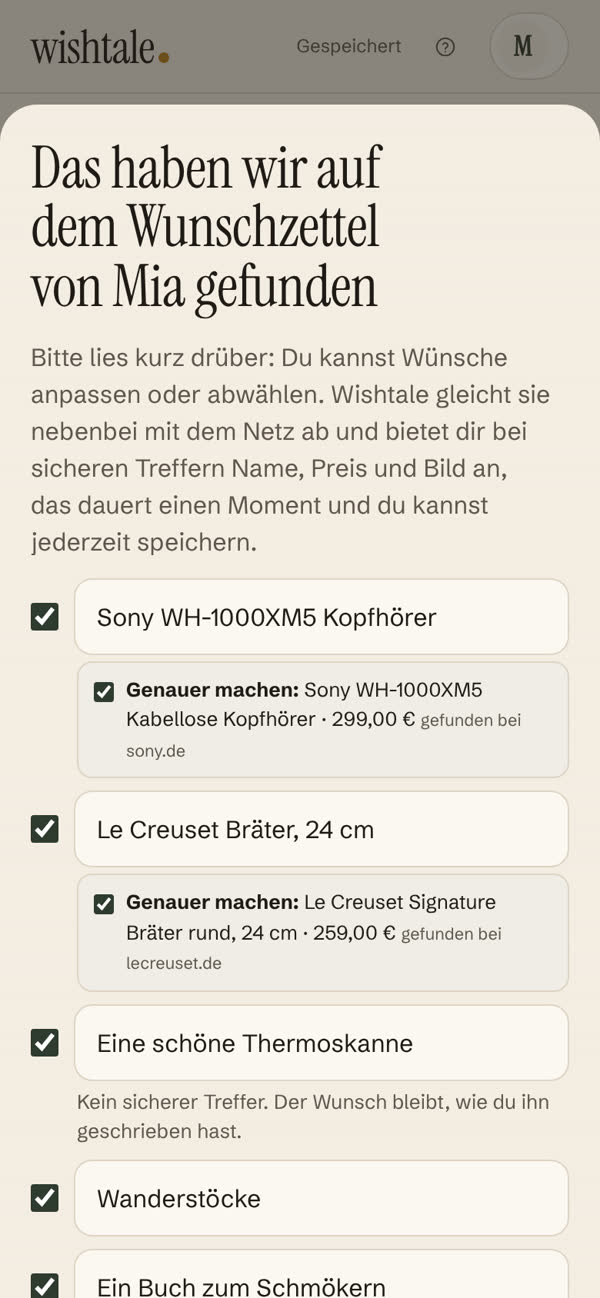
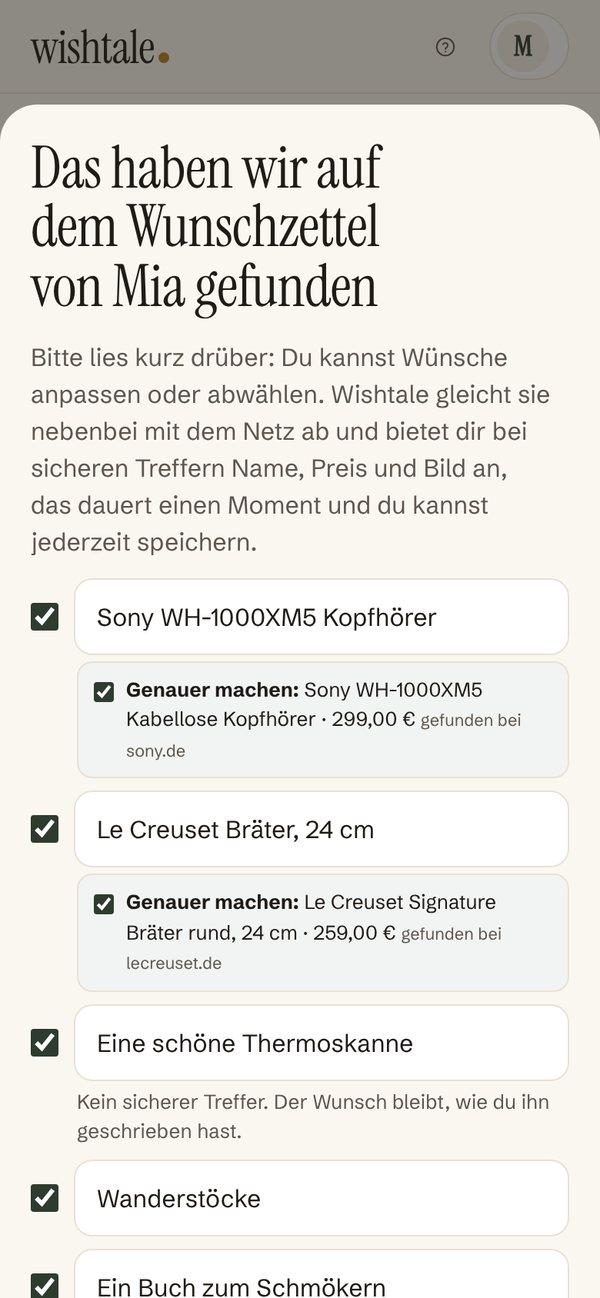
Optische Befunde: klare Unterzeilen, Band wegklickbar, Profil lesbar, Landingpage hell
- Unterzeile ungenauer Wünsche: „Wishtale hat … Ideen dazu“ statt abgeschnittener Produktnamen
- Band „Jetzt neu“ verschwindet nach Benutzen oder ×; Wunschzettel weiter im Wunschdialog und im Menü
- Profil: Sichtbarkeit am Handy mit Kurzwort („Für alle“, „Privat“) statt nur Weltkugel, Knöpfe in einer Zeile
- Gastansicht: Sprung zu den Ideen als sichtbarer Knopf; Reservieren auch in der Freunde-Vorschau (mit Hinweis statt Aktion)
- Landingpage und Rechtsseiten in der hellen Farbwelt, App-Bilder neu aufgenommen

Dev 103

Agent: claude
Claude-Session: https://claude.ai/code/session_01SYv7KzvbXUAkPAj8WHgPpk

Changed region(s): [[0.51, 0.0308, 0.66, 0.0616]]

diff --git a/src/views/card.js b/src/views/card.js
@@ -29,8 +29,10 @@ function wishLine(w,p){
   // Konkret statt allgemein: wo es das gibt, und bei ungenauen Wünschen der erste Tipp von Wishtale (klar als Tipp gekennzeichnet).
   const host=w.link?hostOf(w.link):'';
   const linkLine=!host?'Mit Link':host==='Amazon'?'Bei Amazon':`${host}, auch bei Amazon`;
-  const vague=ai?`Tipp von Wishtale: ${ai.t}`:aiStatus('wish:'+w.id)==='loading'?'Wishtale sucht passende Produkte …':pr&&!['erzeugt','link'].includes(pr.source)?`Tipp von Wishtale: ${pr.t}`:'Tipps von Wishtale ansehen';
-  const line=w.status==='selbst'?'Schon vorhanden':w.link?linkLine:w.kind==='erlebnis'?'Erlebnis':w.kind==='frei'?'Ideen ansehen':w.noSuggest?'Bei Amazon suchen':byAi||w.kind==='kategorie'?vague:isSpecific(w)?'Bei Amazon zu finden':pr?`Tipp von Wishtale: ${pr.t}`:'';
+  // Kurz und eindeutig statt abgeschnittener Produktnamen (098/103): Die Ideen selbst stehen in der Wunsch-Ansicht.
+  const n=ideasOf('wish:'+w.id).length;
+  const vague=aiStatus('wish:'+w.id)==='loading'?'Wishtale sucht passende Produkte …':n>1?`Wishtale hat ${n} Ideen dazu`:(ai||(pr&&!['erzeugt','link'].includes(pr.source)))?'Wishtale hat eine Idee dazu':'Ohne Link, Wishtale hat Ideen dazu';
+  const line=w.status==='selbst'?'Schon vorhanden':w.link?linkLine:w.kind==='erlebnis'?'Erlebnis':w.kind==='frei'?'Ideen ansehen':w.noSuggest?'Bei Amazon suchen':byAi||w.kind==='kategorie'?vague:isSpecific(w)?'Bei Amazon zu finden':pr?'Wishtale hat eine Idee dazu':'';
   return {pr,line};
 }
 
@@ -40,7 +42,7 @@ const cardPrice=w=>w.price?money(w.price):w.kind==='kategorie'&&w.budget?'bis '+
 export function WishRow(w,p,o={}){
   const {pr,line}=wishLine(w,p);
   const price=w.price?money(w.price):w.kind==='kategorie'&&w.budget?'bis '+money(w.budget):'';
-  const res=o.reserve?`<button class="wres" data-act="reserve" data-id="${w.id}" aria-label="${esc(w.t)} reservieren">Reservieren</button>`:'';
+  const res=o.reserve?`<button class="wres" data-act="${o.reserve==='preview'?'previewres':'reserve'}" data-id="${w.id}" aria-label="${esc(w.t)} reservieren">Reservieren</button>`:'';
   const row=`<div class="wrow ${o.taken?'taken':''} ${o.dim?'dim':''} ${w.status==='selbst'?'done':''} ${res?'has-res':''}" role="button" tabindex="0" data-act="wopen" data-id="${w.id}" data-ctx="${o.ctx||'guest'}">
    <span class="wrow-img">${WishArt(w,pr)}</span>
    <div class="wrow-b"><span class="wt">${esc(w.t)}</span><span class="wp">${esc(line)}</span>${o.meta?`<span class="wm">${o.meta}</span>`:''}</div>
@@ -53,7 +55,7 @@ export function WishRow(w,p,o={}){
 /** o.ctx: 'guest' | 'own' | 'preview'; o.status: {text,tone}; o.taken; o.dim; o.meta: HTML der Label-Zeile */
 export function WishCard(w,p,o={}){
   const {pr,line}=wishLine(w,p);
-  const res=o.reserve?`<button class="wres" data-act="reserve" data-id="${w.id}" aria-label="${esc(w.t)} reservieren">Reservieren</button>`:'';
+  const res=o.reserve?`<button class="wres" data-act="${o.reserve==='preview'?'previewres':'reserve'}" data-id="${w.id}" aria-label="${esc(w.t)} reservieren">Reservieren</button>`:'';
   const card=`<div class="wcard compact ${o.taken?'taken':''} ${o.dim?'dim':''} ${w.status==='selbst'?'done':''} ${res?'has-res':''}" role="button" tabindex="0" data-act="wopen" data-id="${w.id}" data-ctx="${o.ctx||'guest'}">
    <div class="wmedia">${WishArt(w,pr)}
     <div class="top"><span class="tag">${esc(cat(w.c).n)}</span><span class="dots" title="${PRIO[w.prio]}" aria-label="Priorität: ${PRIO[w.prio]}">${[1,2,3].map(n=>`<i class="${n<=w.prio?'on':''}"></i>`).join('')}</span></div>

diff --git a/src/views/menu.js b/src/views/menu.js
@@ -27,7 +27,7 @@ export function Menu() {
    <div class="drawer-head"><div class="who"><span class="av t${m.tone}">${initials(m.name)}</span><div><strong id="menu-t">${esc(m.name)}</strong><span class="muted">${u ? esc(u.email || '') : 'Demo, nur in diesem Browser'}</span></div></div>
     <button class="sheet-x mclose" data-act="menuclose" aria-label="Menü schließen">×</button></div>
    <nav aria-label="Menü">
-    ${g('Mein Wishtale', item('star', 'Meine Wünsche', go('wuensche'), v === 'wuensche') + item('user', 'Profil und Persönlichkeit', go('profil'), v === 'profil') + item('globe', 'Social Media', go('profil', 'social'), false, 'Pinterest und Instagram') + item('clock', 'Historie und Meine Geschenke', go('historie'), v === 'historie'))}
+    ${g('Mein Wishtale', item('star', 'Meine Wünsche', go('wuensche'), v === 'wuensche') + (u ? item('plus', 'Wunschzettel hochladen', dd('modal', 'data-v="zettel"'), false, 'Foto oder Text, Wishtale macht daraus Wünsche') : '') + item('user', 'Profil und Persönlichkeit', go('profil'), v === 'profil') + item('globe', 'Social Media', go('profil', 'social'), false, 'Pinterest und Instagram') + item('clock', 'Historie und Meine Geschenke', go('historie'), v === 'historie'))}
     ${g('Für dich', (u ? item('eye', homeIdeasVisible() ? 'Vorschläge auf der Wunschliste ausblenden' : 'Vorschläge auf der Wunschliste einblenden', dd('homeideastoggle'), false) : '') + item('spark', 'Geschmack schärfen', go('geschmack'), v === 'geschmack', 'Karten, die Wishtale dich besser kennenlernen lassen') + (inspirationOn() ? item('gift', 'Inspiration', go('entdecken'), v === 'entdecken', 'Ideen von Wishtale für dich') : ''))}
     ${g('Meine Profile', mine)}
     ${g('Organisation', item('help', 'Hilfe und FAQ', dd('modal', 'data-v="tour" data-help="faq"'), false) + (offerInstall() ? item('plus', 'Wishtale als App', dd('appinstall'), false, 'mit eigenem Symbol auf dem Handy') : '') + item('link', 'Link teilen', dd('share'), false) + item('eye', 'Wer sieht was', go('profil', 'vis'), false, 'Sichtbarkeit im Profil') + (u ? item('bag', 'Mein Plan', go('plan'), v === 'plan') + item('lock', 'Einstellungen und Konto', dd('modal', 'data-v="accounts"'), false, 'Passwort, Konto löschen') + item('back', 'Abmelden', dd('logout'), false) : item('arrow', 'Eigenes Wishtale anlegen', dd('exitdemo'), false)))}

diff --git a/src/views/wishes.js b/src/views/wishes.js
@@ -49,6 +49,10 @@ function EmptyWishes(m){
    <p class="fw-alt">Schon eine Liste? <button type="button" class="linkbtn" data-act="modal" data-v="zettel">Liste einlesen</button></p>
   </section>`;
 }
+/* Das Band „Jetzt neu“ bleibt nur, bis man es benutzt oder wegklickt (103). Hochladen gibt es danach weiter im Wunschdialog und im Menü. */
+const NB='wishtale:newbar-done';
+export const newbarDone=()=>{try{return localStorage.getItem(NB)==='1'}catch{return false}};
+export const setNewbarDone=()=>{try{localStorage.setItem(NB,'1')}catch{/* egal */}};
 export function Wuensche(){
   const m=S.me,u=S.ui;
   if(u.preview)return `<div class="wrap"><div class="row" style="margin:18px 0 4px">${ViewSeg()}</div>${PreviewBanner()}${GuestPage(m,{preview:true})}</div>`;
@@ -64,7 +68,7 @@ export function Wuensche(){
   return `<div class="wrap">
    <div class="pagehead"><p class="eyebrow">Meine Wünsche</p><h1${open&&!m.managed?' class="oneline"':''}>${open===0?(m.managed?`Hier beginnt die Wunschliste von ${esc(m.name)}`:'Hier beginnt deine Wunschliste'):m.managed?`${open} Wünsche von ${esc(m.name)}`:open===1?'1 Ding, über das ich mich freuen würde':`${open} Dinge, über die ich mich freuen würde`}</h1></div>
    <div class="row homebar">${ViewSeg()}${m.handle||!S.auth.user?`<button class="btn gold sm" data-act="share">Teilen</button>`:""}</div>
-   <button class="newbar" data-act="modal" data-v="zettel"><span class="nb-tag">Jetzt neu</span><span class="nb-t"><b>Einfach Wunschliste hochladen</b><small>Foto vom Wunschzettel oder Text, Wishtale macht daraus Wünsche</small></span>${ic('arrow','sm')}</button>
+   ${newbarDone()?'':`<div class="newbar-wrap"><button class="newbar" data-act="newbar"><span class="nb-tag">Jetzt neu</span><span class="nb-t"><b>Einfach Wunschliste hochladen</b><small>Foto vom Wunschzettel oder Text, Wishtale macht daraus Wünsche</small></span>${ic('arrow','sm')}</button><button class="newbar-x" data-act="newbarx" aria-label="Hinweis ausblenden">×</button></div>`}
    ${filt}
    <h2 class="vh">Deine Wünsche</h2>
    ${list.length&&!filt?PrioKey():''}<div class="${useList(list.length)?'wlist':'wgrid'}">${list.map(w=>(useList(list.length)?WishRow:WishCard)(w,m,{

diff --git a/src/styles/main.css b/src/styles/main.css
@@ -1291,7 +1291,7 @@ input[type=checkbox],input[type=radio]{accent-color:var(--accent);width:18px;hei
 .authalt .btn{white-space:normal;text-align:left;justify-content:flex-start;max-width:100%}
 
 /* 098 Schritt 1: hellere Farbwelt in der App (Landingpage bleibt), weiße Karten, Platzhalter in Kategoriefarben. */
-:root:has(#app){--bg:#FAF7F1;--surface:#FFFFFF;--line:#E9E1D3}
+:root{--bg:#FAF7F1;--surface:#FFFFFF;--line:#E9E1D3} /* 103: auch Landingpage und Rechtsseiten */
 .art.mono.t0{--bg2:#F4DCCB;--p1:#8A3E22}
 .art.mono.t1{--bg2:#D7E6DA;--p1:#2D5A3B}
 .art.mono.t2{--bg2:#DCE6F3;--p1:#2E557A}
@@ -1364,3 +1364,18 @@ input[type=checkbox],input[type=radio]{accent-color:var(--accent);width:18px;hei
 .wcard-wrap>.wcard{flex:1}
 .wcard.has-res .wbody{padding-bottom:58px}
 .wcard-wrap .wres{left:14px;bottom:14px}
+
+/* 103: Sichtbarkeit im Profil am Handy mit kurzem Wort statt nur Weltkugel. */
+.pill .vshort{display:none}
+@media(max-width:600px){.psec.cmp .pill .vshort{display:inline;font-size:12.5px;font-weight:600}.psec.cmp .pill{padding:6px 10px;gap:5px}}
+.jumpbtn{display:inline-flex;align-items:center;gap:6px;min-height:36px;padding:0 14px;border:0;border-radius:99px;background:#ECF1E8;color:#2E4A33;font:600 13.5px/1 var(--body);cursor:pointer}
+.jumpbtn:hover{background:#E1EADC}
+.jumpbtn:focus-visible{outline:2px solid var(--ink);outline-offset:2px}
+.newbar-wrap{position:relative}
+.newbar-wrap .newbar{padding-right:52px}
+.newbar-x{position:absolute;top:50%;right:6px;transform:translateY(-50%);width:44px;height:44px;border:0;background:transparent;color:#F6F0E4;font-size:22px;line-height:1;cursor:pointer;border-radius:50%}
+.newbar-x:hover{background:rgba(255,255,255,.1)}
+.newbar-x:focus-visible{outline:2px solid #F6F0E4;outline-offset:-4px}
+.newbar-wrap .newbar>.ico:last-of-type{display:none}
+.wl-alt{margin:4px 0 0;font-size:14px}
+.psec.cmp .hd>span.row{flex-wrap:nowrap;flex-shrink:0}

diff --git a/src/views/giver.js b/src/views/giver.js
@@ -30,7 +30,7 @@ export function GuestPage(p,{preview=false}={}){
     <div class="pheadslot">${ProfileHead(p,{preview})}</div>
     <div class="pmain">
      ${preview?'':PastGifts(p)}
-     ${none||preview?'':`<p class="jumpideas"><button class="linkbtn" data-act="jump" data-to="mehr">${ic('spark','sm')}Zu den Ideen von Wishtale</button></p>`}
+     ${none||preview?'':`<p class="jumpideas"><button class="jumpbtn" data-act="jump" data-to="mehr">${ic('spark','sm')}Ideen von Wishtale für ${esc(p.name)} ansehen</button></p>`}
      ${none?'':wl.html}
      ${More(p,{preview,none,open:wl.open})}
      <p class="disc">Die Links zu Shops sind Partnerlinks (Anzeige). ${AMAZON_DISCLOSURE} Preise können abweichen, maßgeblich ist immer der Preis bei Amazon.</p>
@@ -83,7 +83,7 @@ export function WishList(p,{preview=false}={}){
     else if(isMine)status={text:'Von dir reserviert',tone:'me'};
     else if(taken)status={text:'Reserviert',tone:'res'};
     const meta=(w.via?`<span class="chip gold">Tipp</span>`:'')+(w.kind==='kategorie'?`<span class="chip">bis ${w.budget?money(w.budget):'offen'}</span>`:'');
-    return (useList(all.length)?WishRow:WishCard)(w,p,{ctx:preview?'preview':'guest',meta,status,taken:taken||(w.bought&&!isMine),dim:r===0&&!taken,reserve:!preview&&!w.res&&!w.bought});
+    return (useList(all.length)?WishRow:WishCard)(w,p,{ctx:preview?'preview':'guest',meta,status,taken:taken||(w.bought&&!isMine),dim:r===0&&!taken,reserve:!w.res&&!w.bought?(preview?'preview':true):false});
   };
   const free=vw.filter(w=>w.res!=='other').length;
   const html=`<section id="wunschliste" aria-label="Wunschliste von ${esc(p.name)}">

diff --git a/src/views/shared.js b/src/views/shared.js
@@ -15,7 +15,7 @@ export function AcctBtn(){
   return `<button class="acctbtn" data-act="menu" aria-haspopup="dialog" aria-expanded="${S.ui.menu?'true':'false'}"><span class="av t${S.me.tone}">${initials(S.me.name)}</span><span class="hide-s">${esc(S.me.name)}${S.me.managed?' (Kind)':''}</span><span class="vh">, Menü öffnen</span></button>`;
 }
 export const Legend=()=>`<div class="legend">${[V.alle,V.privat].map(x=>`<span>${ic(x.i,'sm')}${x.l}</span>`).join('')}<span>Tippe auf das Zeichen neben einem Abschnitt, um die Sichtbarkeit zu ändern.</span></div>`;
-export const VisPill=(k,btn)=>{const x=V[k];return btn?`<button class="pill pillbtn" data-act="vis" data-k="${btn}" title="Sichtbarkeit ändern" aria-label="Sichtbarkeit: ${x.l}, ändern">${ic(x.i,'sm')}<span class="vl">${x.l}</span><i aria-hidden="true">▾</i></button>`:`<span class="pill">${ic(x.i,'sm')}<span class="vl">${x.l}</span></span>`};
+export const VisPill=(k,btn)=>{const x=V[k];return btn?`<button class="pill pillbtn" data-act="vis" data-k="${btn}" title="Sichtbarkeit ändern" aria-label="Sichtbarkeit: ${x.l}, ändern">${ic(x.i,'sm')}<span class="vl">${x.l}</span><span class="vshort" aria-hidden="true">${x.s||x.l}</span><i aria-hidden="true">▾</i></button>`:`<span class="pill">${ic(x.i,'sm')}<span class="vl">${x.l}</span><span class="vshort" aria-hidden="true">${x.s||x.l}</span></span>`};
 
 
 /* Kopfzeile für Gäste: nur Logo und der Einstieg in ein eigenes Wishtale. */

diff --git a/src/actions.js b/src/actions.js
@@ -1,4 +1,5 @@
 import { beginGuide, endGuide, guideClick, guideSubmit, focusGuideTarget, currentGuideStep, syncGuide } from './lib/guide.js';
+import { setNewbarDone } from './views/wishes.js';
 import { smartCats } from './lib/smartcats.js';
 import { promptInstall } from './lib/pwa.js';
 import { dismissAppHint } from './views/appinstall.js';
@@ -496,6 +497,9 @@ async readlink(el,auto){
  demoprev(){demoStop();demoGo(demoStep()-1)},
  demonext(){demoStop();demoGo(demoStep()+1)},
  demotoggle(el){if(el.getAttribute('aria-pressed')==='true')demoStop();else{demoGo(demoStep()+1);demoPlay()}},
+ previewres(){toast('So sehen es deine Freunde: Mit einem Tipp reservieren sie einen Wunsch, und du erfährst nicht, wer es war.')},
+ newbar(){setNewbarDone();S.ui.zt=null;S.ui.modal='zettel';render()},
+ newbarx(){setNewbarDone();render();toast('Alles klar. Einen Wunschzettel hochladen kannst du weiterhin über „Wunsch hinzufügen“ oder im Menü.')},
  apphintx(){dismissAppHint();render();toast('Alles klar. Du findest „Wishtale als App“ jederzeit im Menü.')},
  async appinstall(){dismissAppHint();S.ui.menu=false;const r=await promptInstall();if(r==='manual'){S.ui.modal='appinstall';render();demoStart();return}S.ui.modal=null;render();if(r==='accepted')toast('Schön, Wishtale liegt jetzt auf deinem Home-Bildschirm.')},
  promohide(el){hidePromo(el.dataset.id);render()},

diff --git a/src/views/modals.js b/src/views/modals.js
@@ -79,6 +79,7 @@ export function Modal(){
    <form data-form="wish">
     <div class="fld"><label for="wt" class="lf-t">Was wünschst du dir?</label><input id="wt" name="t" class="inp big" required placeholder="Produkt, Erlebnis oder Idee, auch ein kopierter Titel oder Link" autocomplete="off" value="${esc(d.t||S.ui.prefill||'')}"></div>
     <div id="wprev" aria-live="polite">${ed?'':WishRec()}</div>
+    ${ed?'':'<p class="fw-alt wl-alt">Schon eine ganze Liste? <button type="button" class="linkbtn" data-act="modal" data-v="zettel">Wunschzettel einlesen</button></p>'}
     <div class="fld linkfirst"><label for="wl">Link zum Produkt <span class="muted" style="font-weight:400">(optional)</span></label>
      <div class="lf-row"><input id="wl" name="link" class="inp" placeholder="Shop-Link einfügen" autocomplete="off" value="${esc(d.link||'')}"><button type="button" class="btn sec" data-act="readlink">Einlesen</button></div>
      <p id="wlstat" class="hint" role="status" aria-live="polite">Shop-Links lesen wir direkt, Amazon-Links werden gespeichert.${ed?'':` <button type="button" class="linkbtn" data-act="azopen">Bei Amazon suchen</button>`}</p></div>

diff --git a/src/data/content.js b/src/data/content.js
@@ -72,7 +72,7 @@ export const LOOKS=[
  {id:'l6',cid:'hanna',t:'Packliste Wochenende',d:'Ordnung im Rucksack, ohne zu viel mitzunehmen.',scene:'packen',objs:[{k:'suitcase',x:120,y:420,s:1.6,tone:5,pid:'z5'},{k:'compass',x:275,y:380,s:1.4,tone:1,pid:'z4'}]}
 ];
 export const LOOKSCOPE=['Alle','Interior','Küche','Outdoor'];
-export const V={alle:{l:'Für alle mit Link',i:'globe'},giver:{l:'Für alle mit Link',i:'globe'},privat:{l:'Privat',i:'lock'},nur:{l:'Nur für dich',i:'eye'}};
+export const V={alle:{l:'Für alle mit Link',s:'Für alle',i:'globe'},giver:{l:'Für alle mit Link',s:'Für alle',i:'globe'},privat:{l:'Privat',s:'Privat',i:'lock'},nur:{l:'Nur für dich',s:'Nur du',i:'eye'}};
 /* Kinder-Konten: nur altersgerechte Auswahl für Welten, Interessen, Marken und Co. */
 export const KID_CATS=['spielen','baby','buecher','sport','outdoor','wintersport','radsport','musik','erlebnisse','mode','sonstiges'];
 export const KID_OPTS={

diff --git a/CLAUDE.md b/CLAUDE.md
@@ -86,7 +86,7 @@
 
 - Installierbare Web-App (095, 096, Jann: Stufe 1): `public/app/manifest.webmanifest` (Bereich `/app/`, Symbole aus `scripts/app-icons.mjs` in `public/app/icons/`), Service Worker `public/app/sw.js` (nur `/assets/` und App-Symbole aus dem Zwischenspeicher, Seitenaufrufe immer zuerst übers Netz, ohne Netz `public/app/offline.html`; nie `/api/` oder fremde Adressen; bei Änderungen `VERSION` erhöhen), Anmeldung nur im Build (`src/lib/pwa.js`). Menüpunkt „Wishtale als App“ und einmaliger Hinweis am Handy ab zwei Wünschen (`src/views/appinstall.js`, auf dem iPhone ein nachgebauter Bildschirm mit tippendem Finger für Safari ab 26 und ältere Versionen, `src/views/iosdemo.js`, Text bleibt die barrierefreie Anleitung; Anleitung für Android, auf Android der Installationsdialog des Browsers). „Teilen an Wishtale“ auf Android über `share_target` (`?share_url`, `takeShare()`/`pendingShare()`, öffnet nach der Anmeldung den Wunschdialog und liest den Link). Stufe 2 (Stores) ist offen, siehe Dev 095.
 
-- Farbwelt der App (098, Jann): In der App (`:root:has(#app)`) hellerer Grund `#FAF7F1`, weiße Karten, feinere Linien; die Landingpage behält ihre Farben. Wünsche ohne Bild bekommen Platzhalter in sechs Kategoriefarben (`.art.mono.t0` bis `t5`, Ton aus der Kategorie, `WishArt()` in `src/views/card.js`). Überschrift der Wunschliste ohne Punkt in einer Zeile (`h1.oneline`), Legende der Wichtigkeit im Filter, Band „Jetzt neu“ am Handy einzeilig, „Gespeichert“ am Handy aus. Unter der Liste steht nur ein Hinweis zur Zeit: Erste Schritte, sonst App-Hinweis, sonst Geschmack, sonst Nudge. Vorschläge von Wishtale stehen auf einer eigenen, salbeigrün getönten Fläche (`.ideas-zone`, 099: eigene Ansicht und Gastansicht) mit weißen Karten, am Handy waagerecht wischbar. Wunsch-Ansicht: Wunsch nur oben, Doppelungen raus (`sameItem()` in `src/views/wishmodal.js`), ein Hauptknopf.
+- Farbwelt (098, 103, Jann): Überall (seit 103 auch Landingpage und Rechtsseiten) hellerer Grund `#FAF7F1`, weiße Karten, feinere Linien. App-Bilder der Landingpage (`public/landing/*.jpg`, 600 px breit) entstehen mit `CAPTURE_ONLY=1 npm run promo:zettel` aus `promo/out/_shots/`. Band „Jetzt neu“ verschwindet nach Benutzen oder ×  (`wishtale:newbar-done`), Wunschzettel danach im Wunschdialog und im Menü. Unterzeile ungenauer Wünsche: „Wishtale hat … Ideen dazu“ statt abgeschnittener Produktnamen. Sichtbarkeit im Profil am Handy mit Kurzwort (`s` in `V`, Klasse `vshort`, nicht `vs`, die gehört der Landingpage). Wünsche ohne Bild bekommen Platzhalter in sechs Kategoriefarben (`.art.mono.t0` bis `t5`, Ton aus der Kategorie, `WishArt()` in `src/views/card.js`). Überschrift der Wunschliste ohne Punkt in einer Zeile (`h1.oneline`), Legende der Wichtigkeit im Filter, Band „Jetzt neu“ am Handy einzeilig, „Gespeichert“ am Handy aus. Unter der Liste steht nur ein Hinweis zur Zeit: Erste Schritte, sonst App-Hinweis, sonst Geschmack, sonst Nudge. Vorschläge von Wishtale stehen auf einer eigenen, salbeigrün getönten Fläche (`.ideas-zone`, 099: eigene Ansicht und Gastansicht) mit weißen Karten, am Handy waagerecht wischbar. Wunsch-Ansicht: Wunsch nur oben, Doppelungen raus (`sameItem()` in `src/views/wishmodal.js`), ein Hauptknopf.
 
 - Kategorien (100, Jann: Stufe 1): 22 feste Kategorien in `CATS` (`src/data/content.js`, je mit Beschreibung `d` für die KI; IDs nie ändern, neue anhängen), feiner getrennt (Fitness neben Sport, Wintersport und Radsport neben Outdoor, Gaming neben Technik, Beauty, Garten, Musik, Heimwerken, Baby, Haustier) und „Sonstiges“ statt „Wohnen“ als Auffang (`cat()` fällt auf `sonstiges` zurück). `guessCategory()` in `src/lib/category.js` (speziell vor allgemein). Was die Wortliste nicht kennt, ordnet `smartCats()` (`src/lib/smartcats.js`) nach dem Speichern per `mode=cat` in `api/ideas.js` (`categorize()` in `api/_lib/match.js`, leichtes Modell, nur Wunschnamen, höchstens 24, Zwischenspeicher) ein, nie wenn die Person die Kategorie selbst gewählt hat. `recatOnce()` sortiert ältere Wünsche je Profil einmal neu (`wishtale:cats-v2`). Datenschutz Abschnitt 11. Stufe 2 (eigene Gruppen je Person) offen.
 

diff --git a/docs/tribunal/103-optische-befunde/frage.md b/docs/tribunal/103-optische-befunde/frage.md
@@ -1,0 +1,11 @@
+---
+topic: 103-optische-befunde
+art: aufgabe
+von: jann
+datum: 2026-11-22
+---
+# Restliche optische Befunde
+
+Wortlaut von Jann im Chat (zu Claudes Liste, Punkte 4 bis 9, nach 102):
+
+> Ändere die anderen optischen Bugs auch bitte

diff --git a/docs/tribunal/103-optische-befunde/bau.md b/docs/tribunal/103-optische-befunde/bau.md
@@ -1,0 +1,6 @@
+---
+von: claude
+status: fertig
+datum: 2026-11-22
+---
+Claude baut 103 direkt nach Janns Anweisung im Chat.
